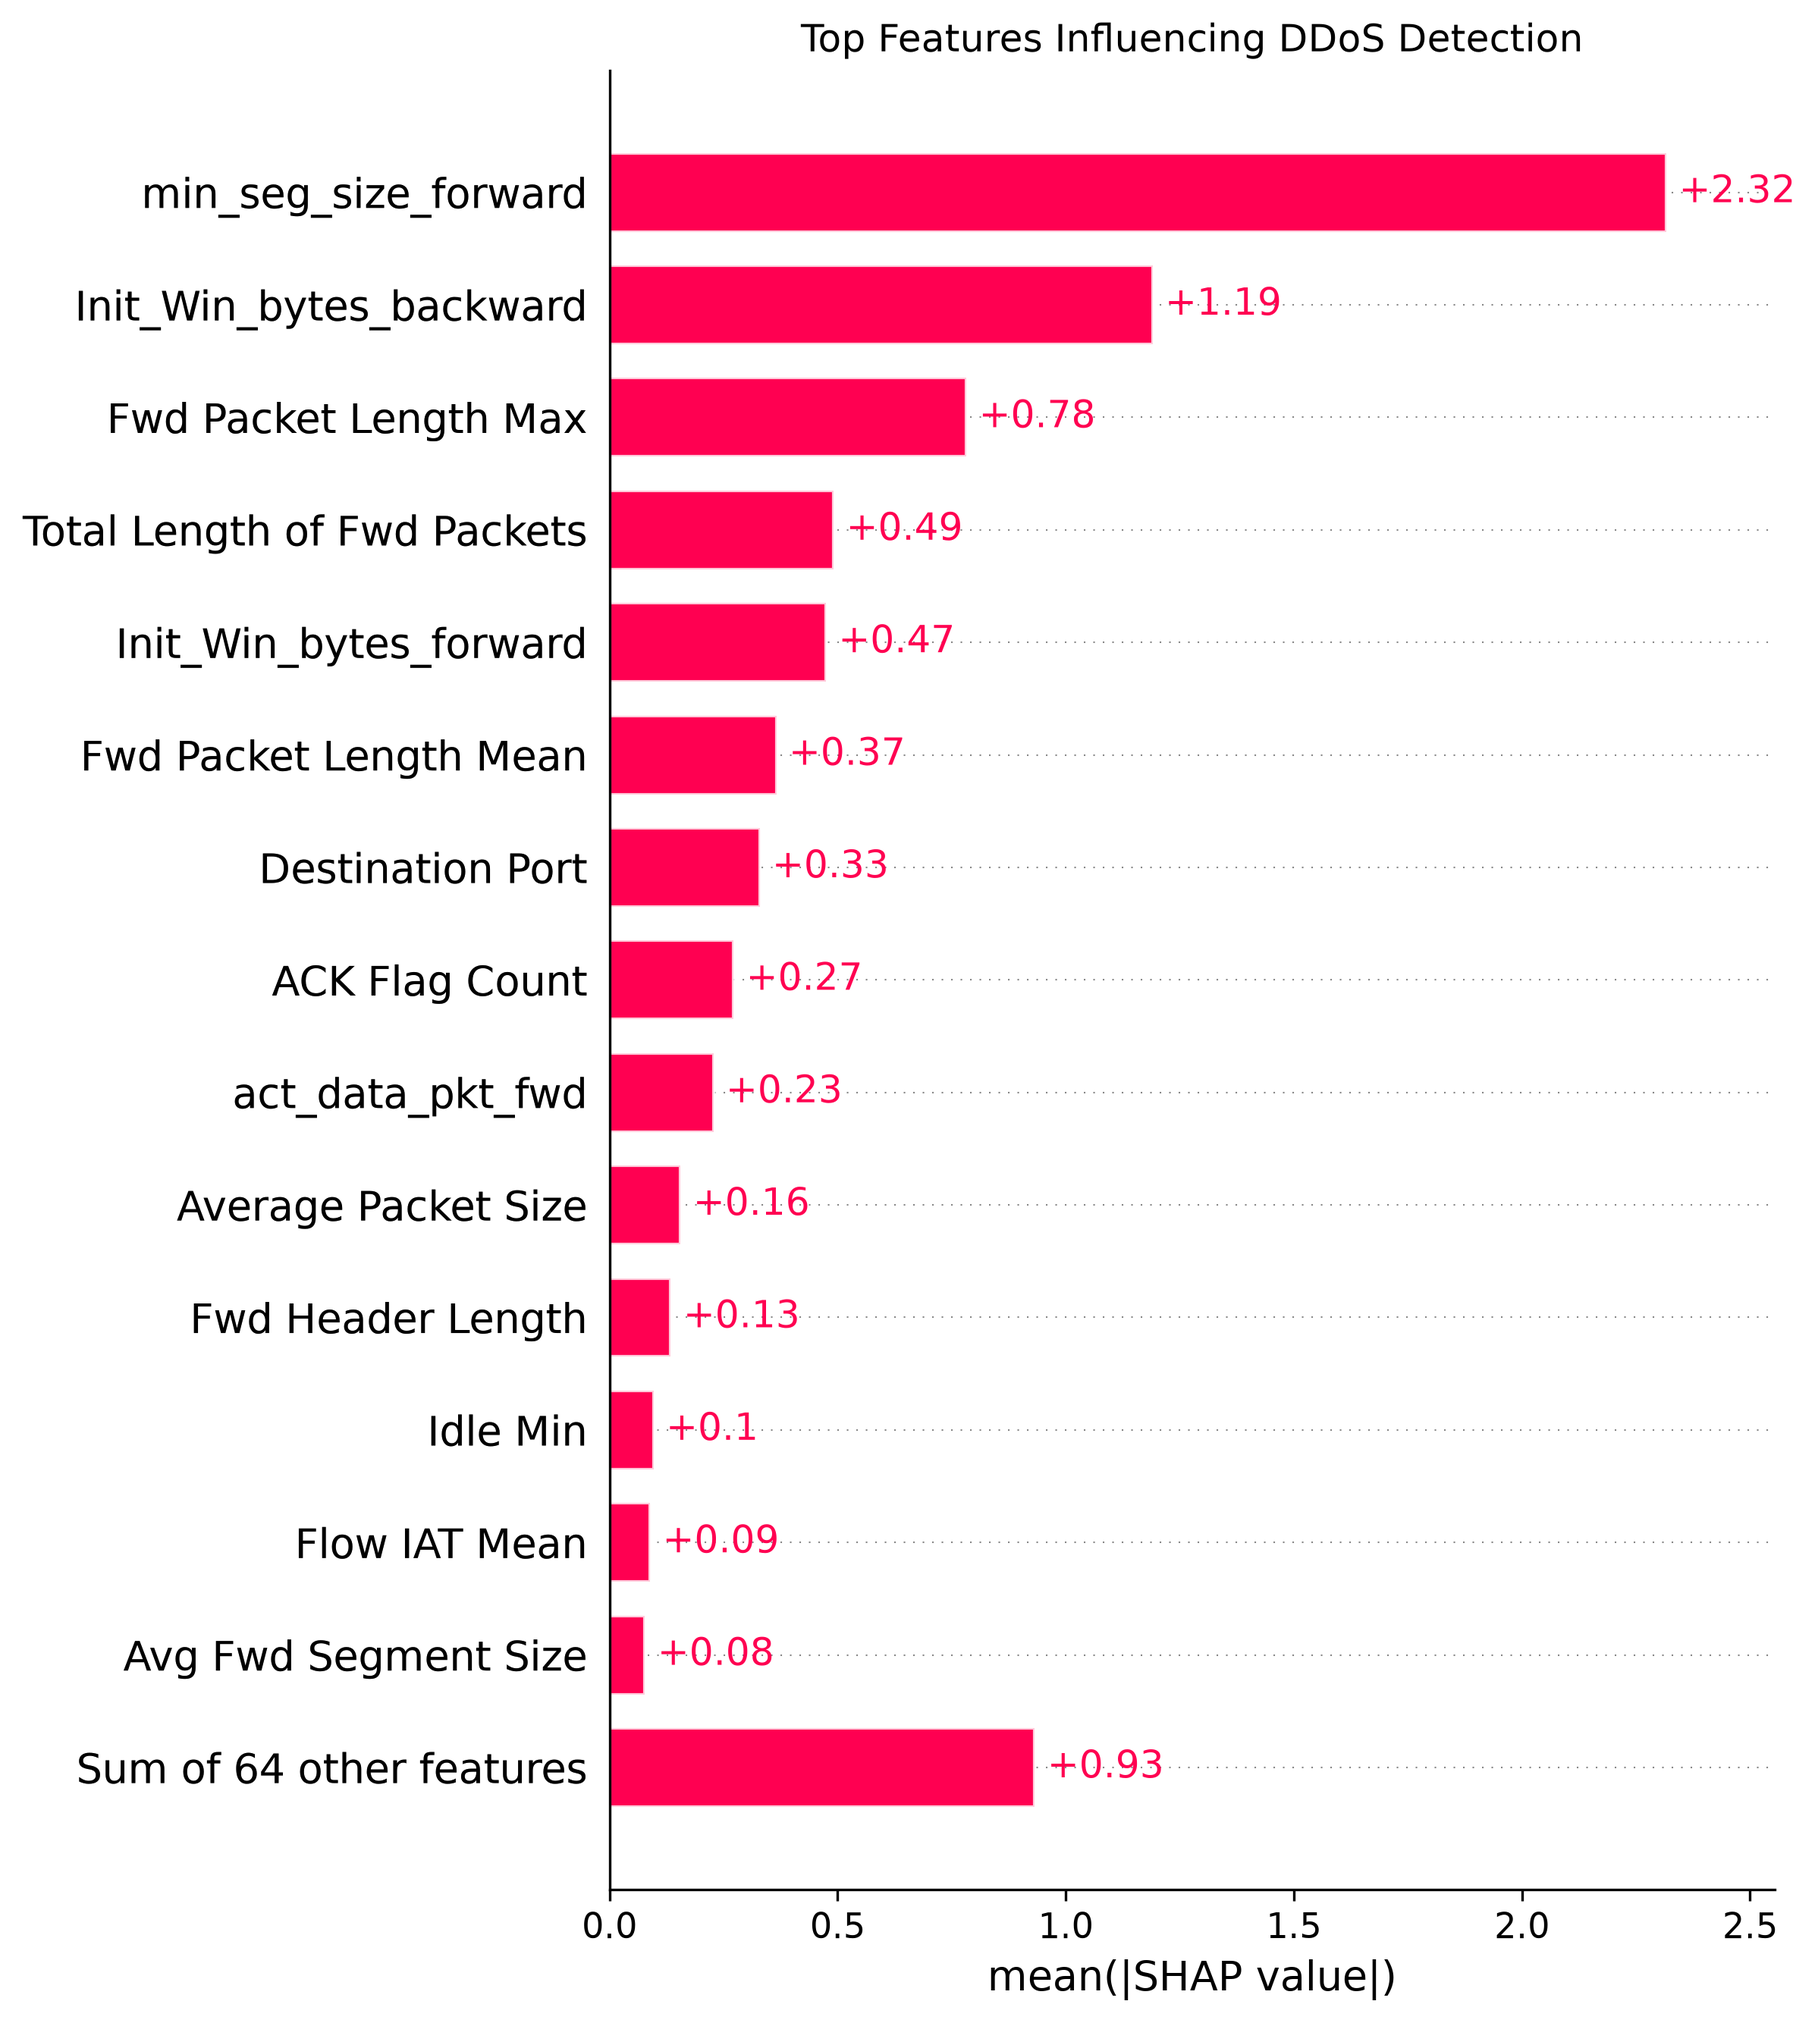
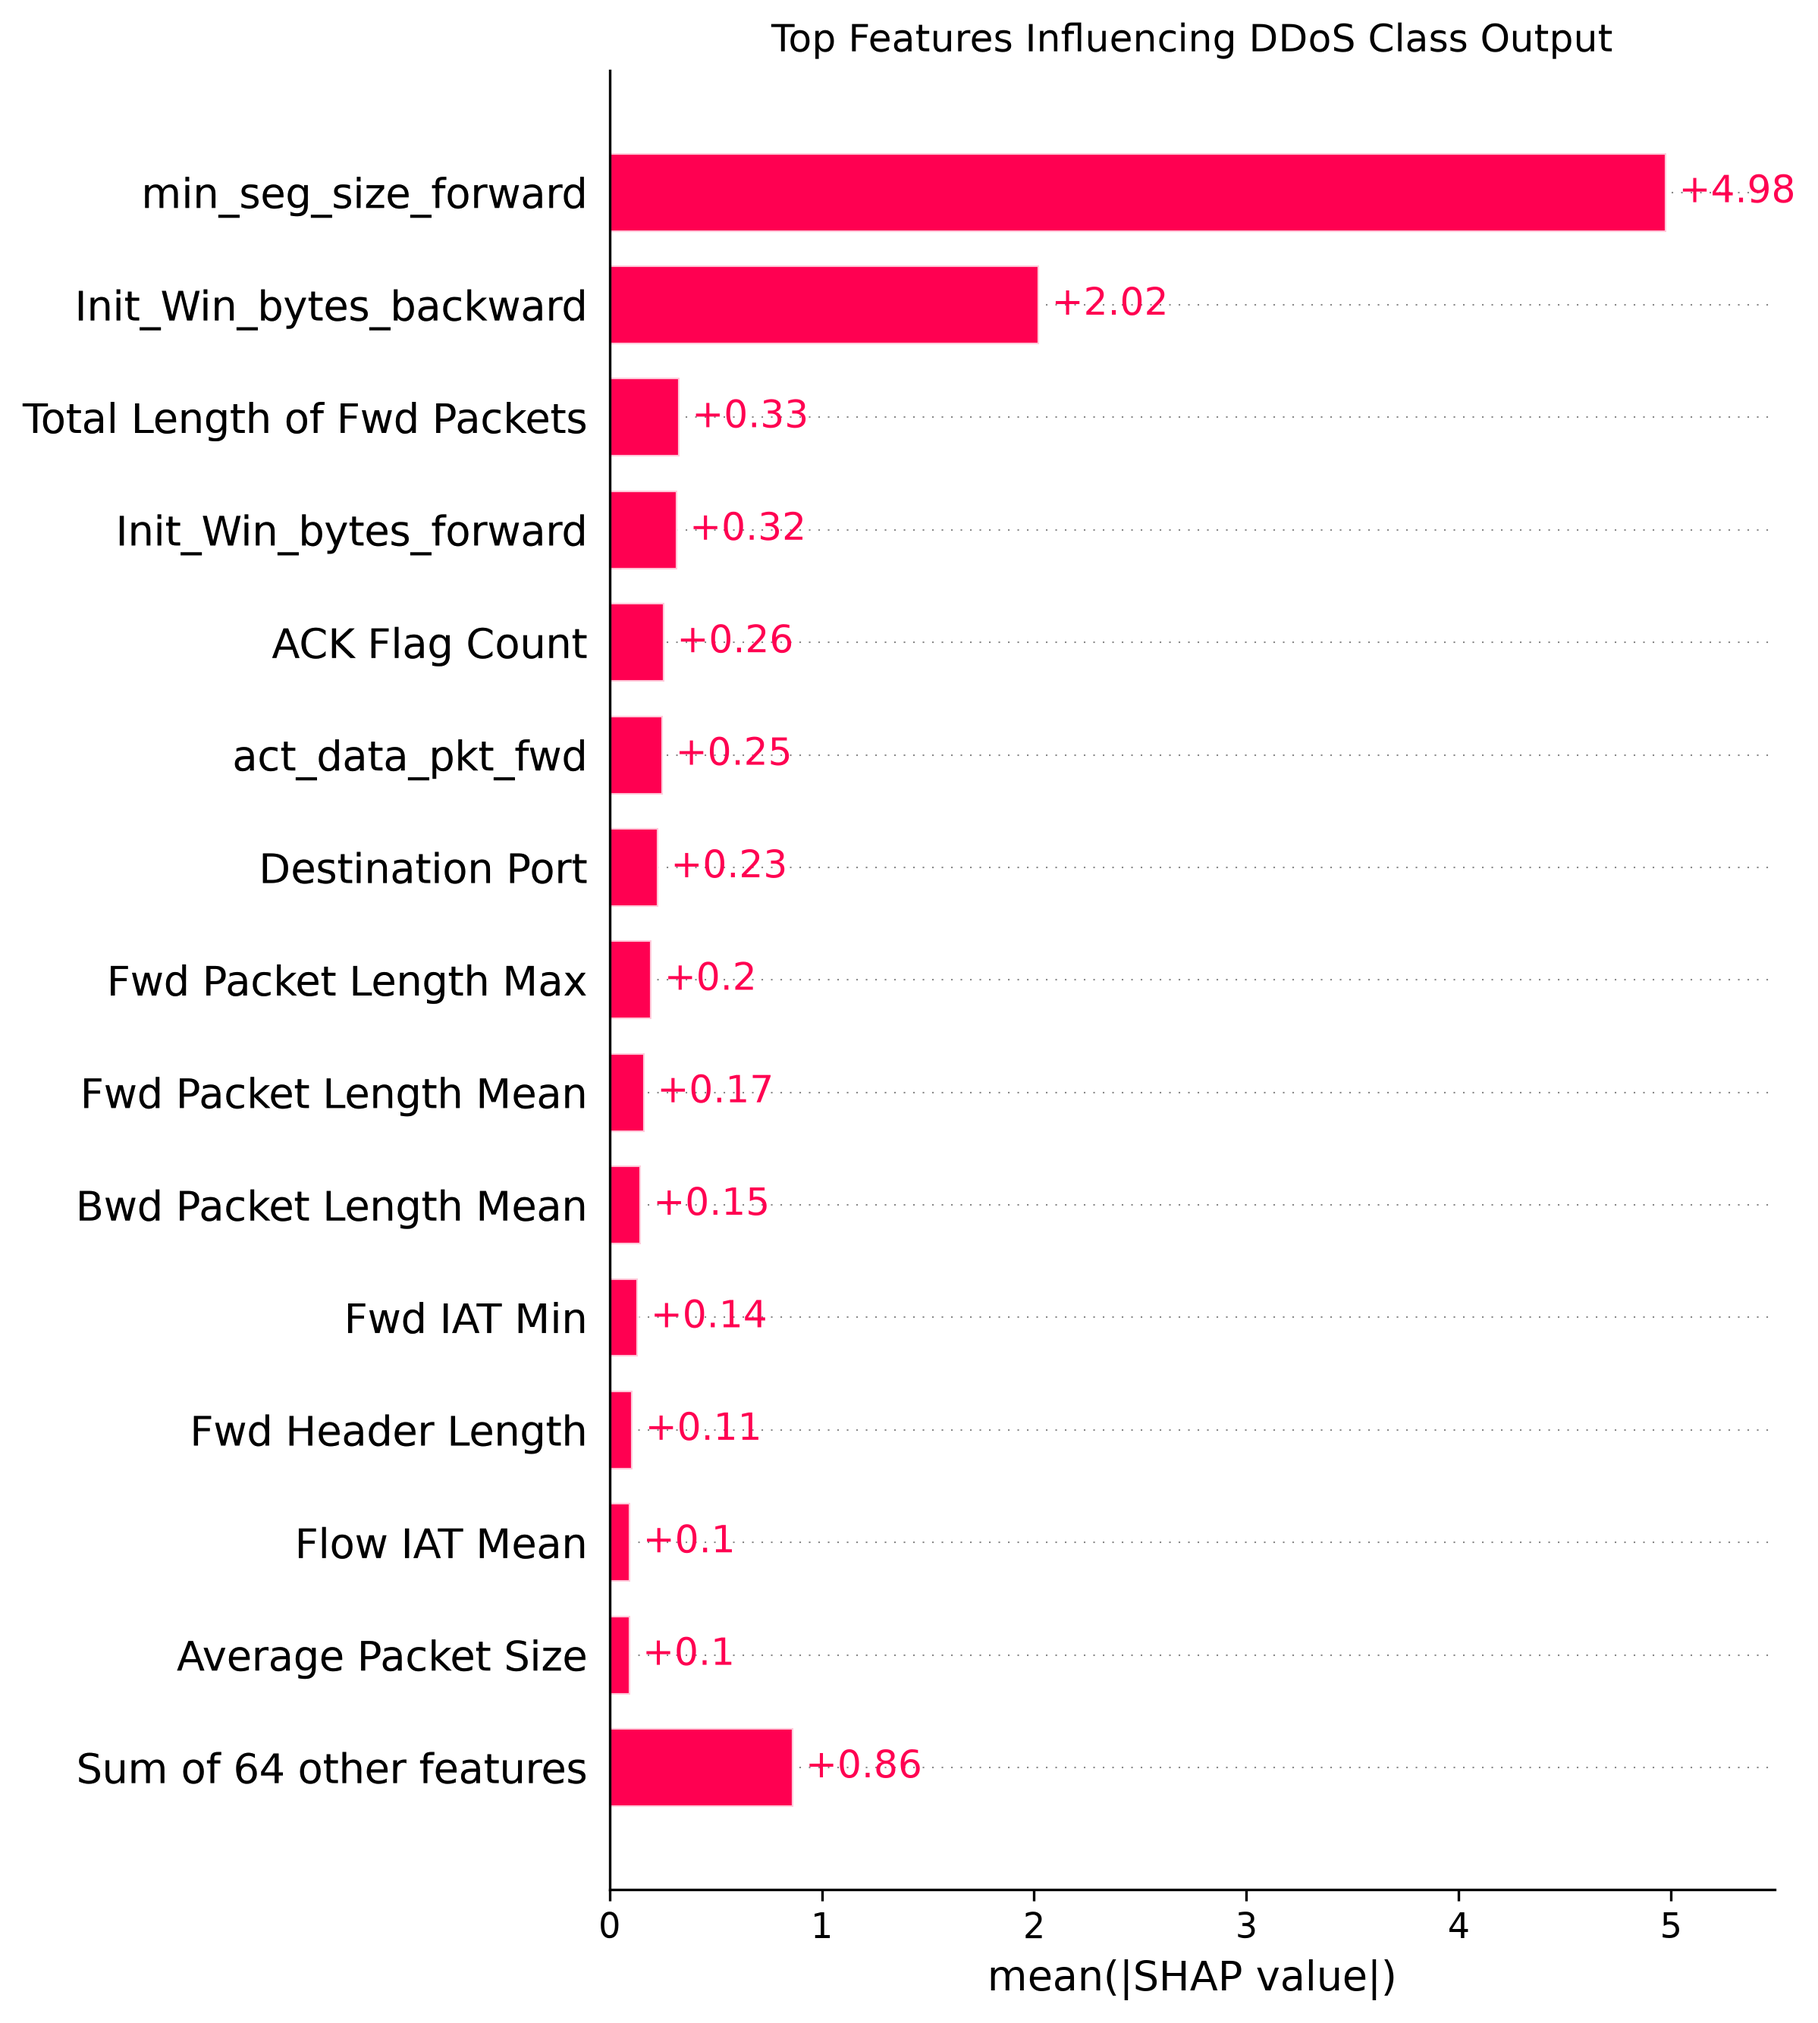
Add false negative analysis and SHAP explanations

diff --git a/src/inspect_false_negatives.py b/src/inspect_false_negatives.py
@@ -1,0 +1,39 @@
+
+from pathlib import Path
+import pandas as pd
+
+path = Path("reports/heldout_false_negatives.csv")
+df = pd.read_csv(path)
+
+print("\n========== FALSE NEGATIVE INVESTIGATION ==========")
+
+print("\n1. Probability statistics")
+print(df["attack_probability"].describe(
+    percentiles=[0.25, 0.50, 0.75, 0.90, 0.95, 0.99]
+))
+
+print("\n2. Lowest probability examples")
+print(
+    df[["true_label", "attack_probability", "predicted_label"]]
+    .head(10)
+    .to_string(index=False)
+)
+
+print("\n3. Features with most missing values")
+missing = df.isna().sum().sort_values(ascending=False)
+print(missing.head(15).to_string())
+
+print("\n4. Features with highest standard deviation")
+numeric = df.select_dtypes(include="number")
+variation = numeric.std().sort_values(ascending=False)
+print(variation.head(20).to_string())
+
+print("\n5. Attack probability distribution")
+print(
+    pd.cut(
+        df["attack_probability"],
+        bins=[0, 0.01, 0.05, 0.10, 0.20, 0.30, 0.40, 0.50]
+    ).value_counts(sort=False).to_string()
+)
+
+print("\nINVESTIGATION COMPLETE")

diff --git a/src/compare_false_negative_features.py b/src/compare_false_negative_features.py
@@ -1,3 +1,4 @@
+
 from pathlib import Path
 
 import numpy as np
